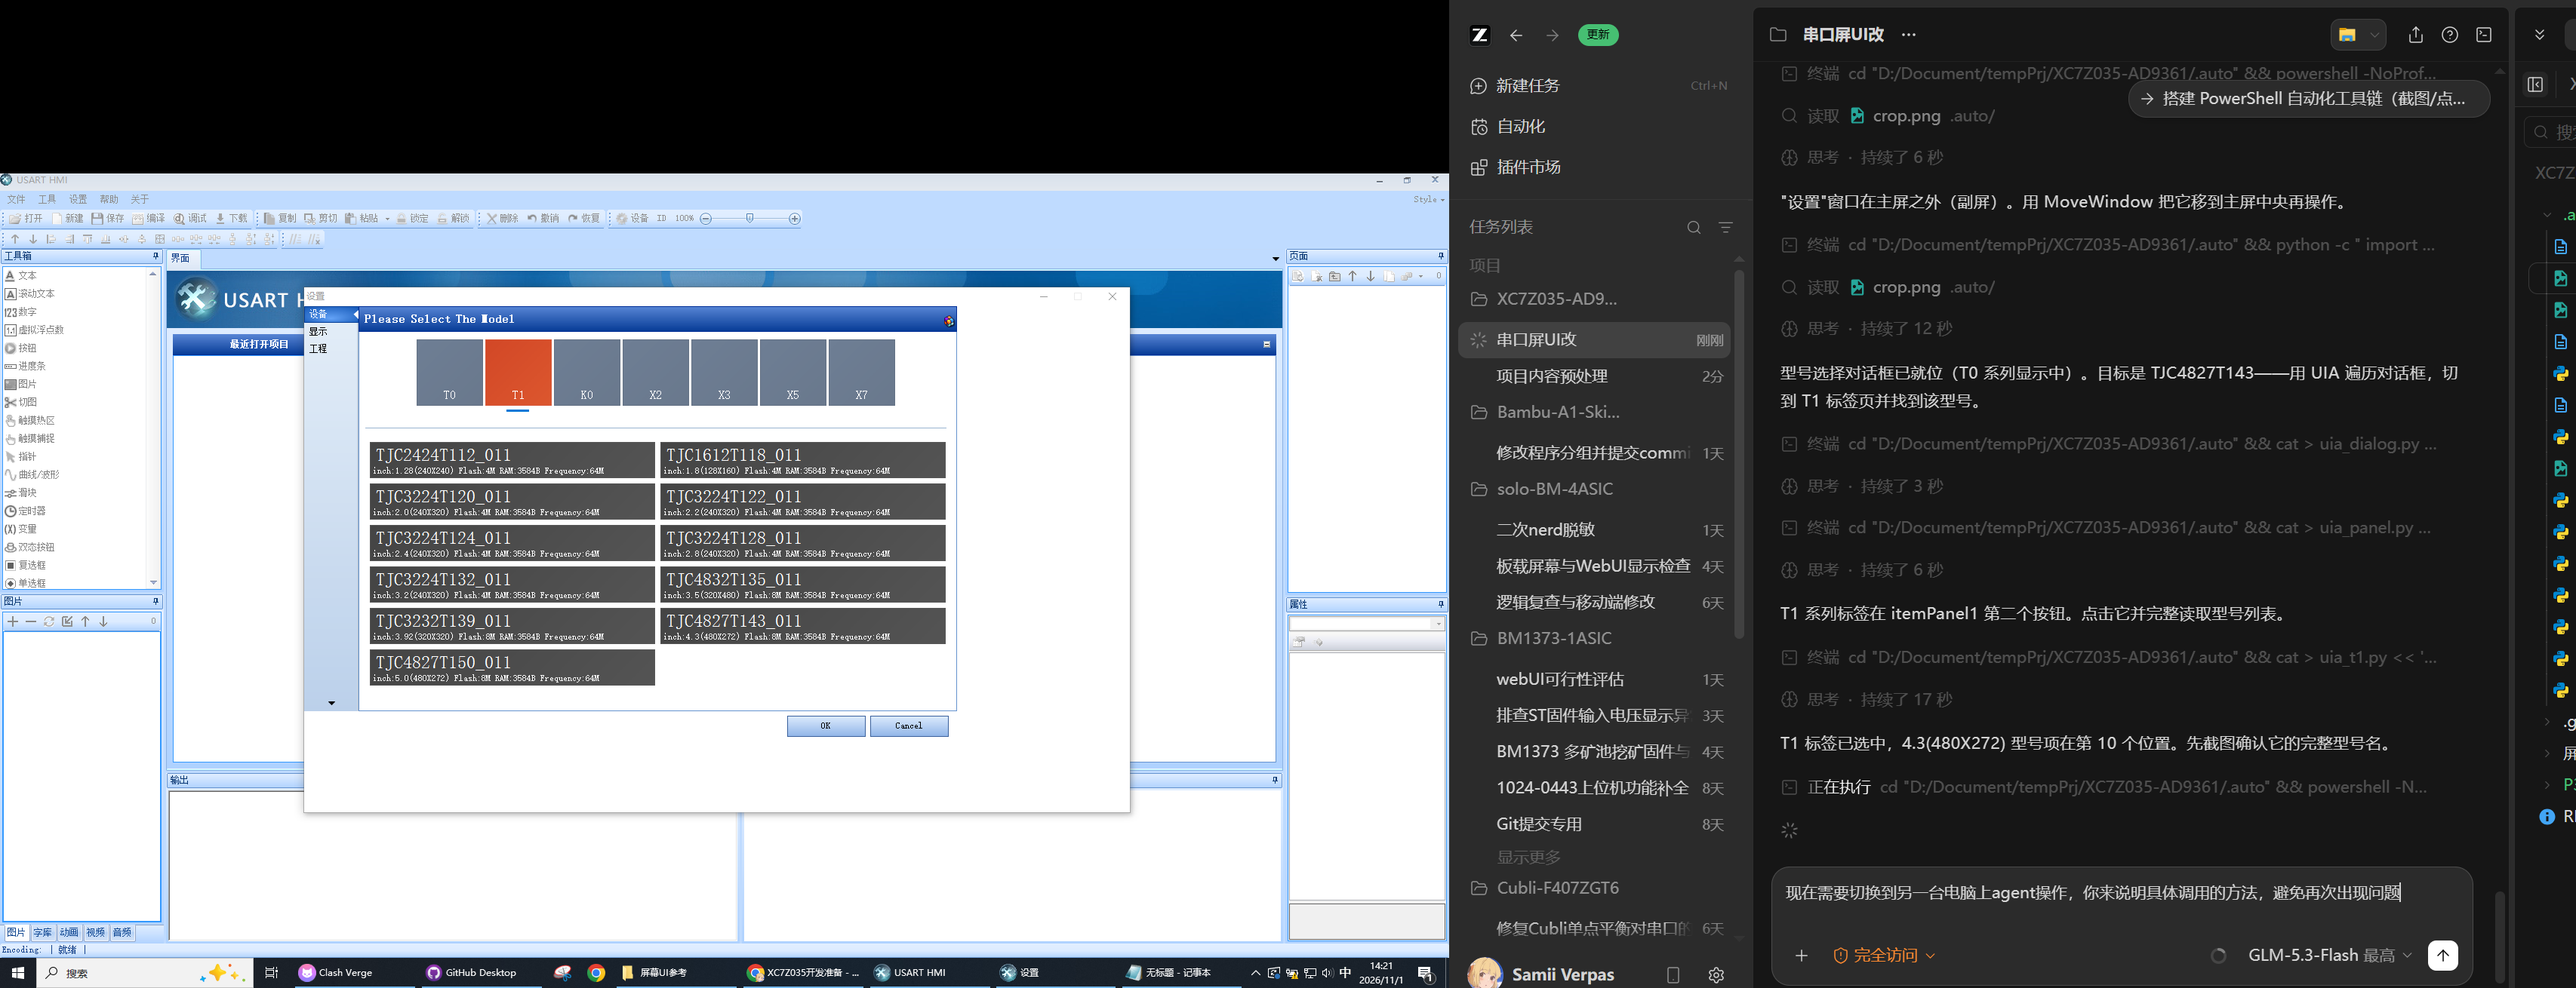
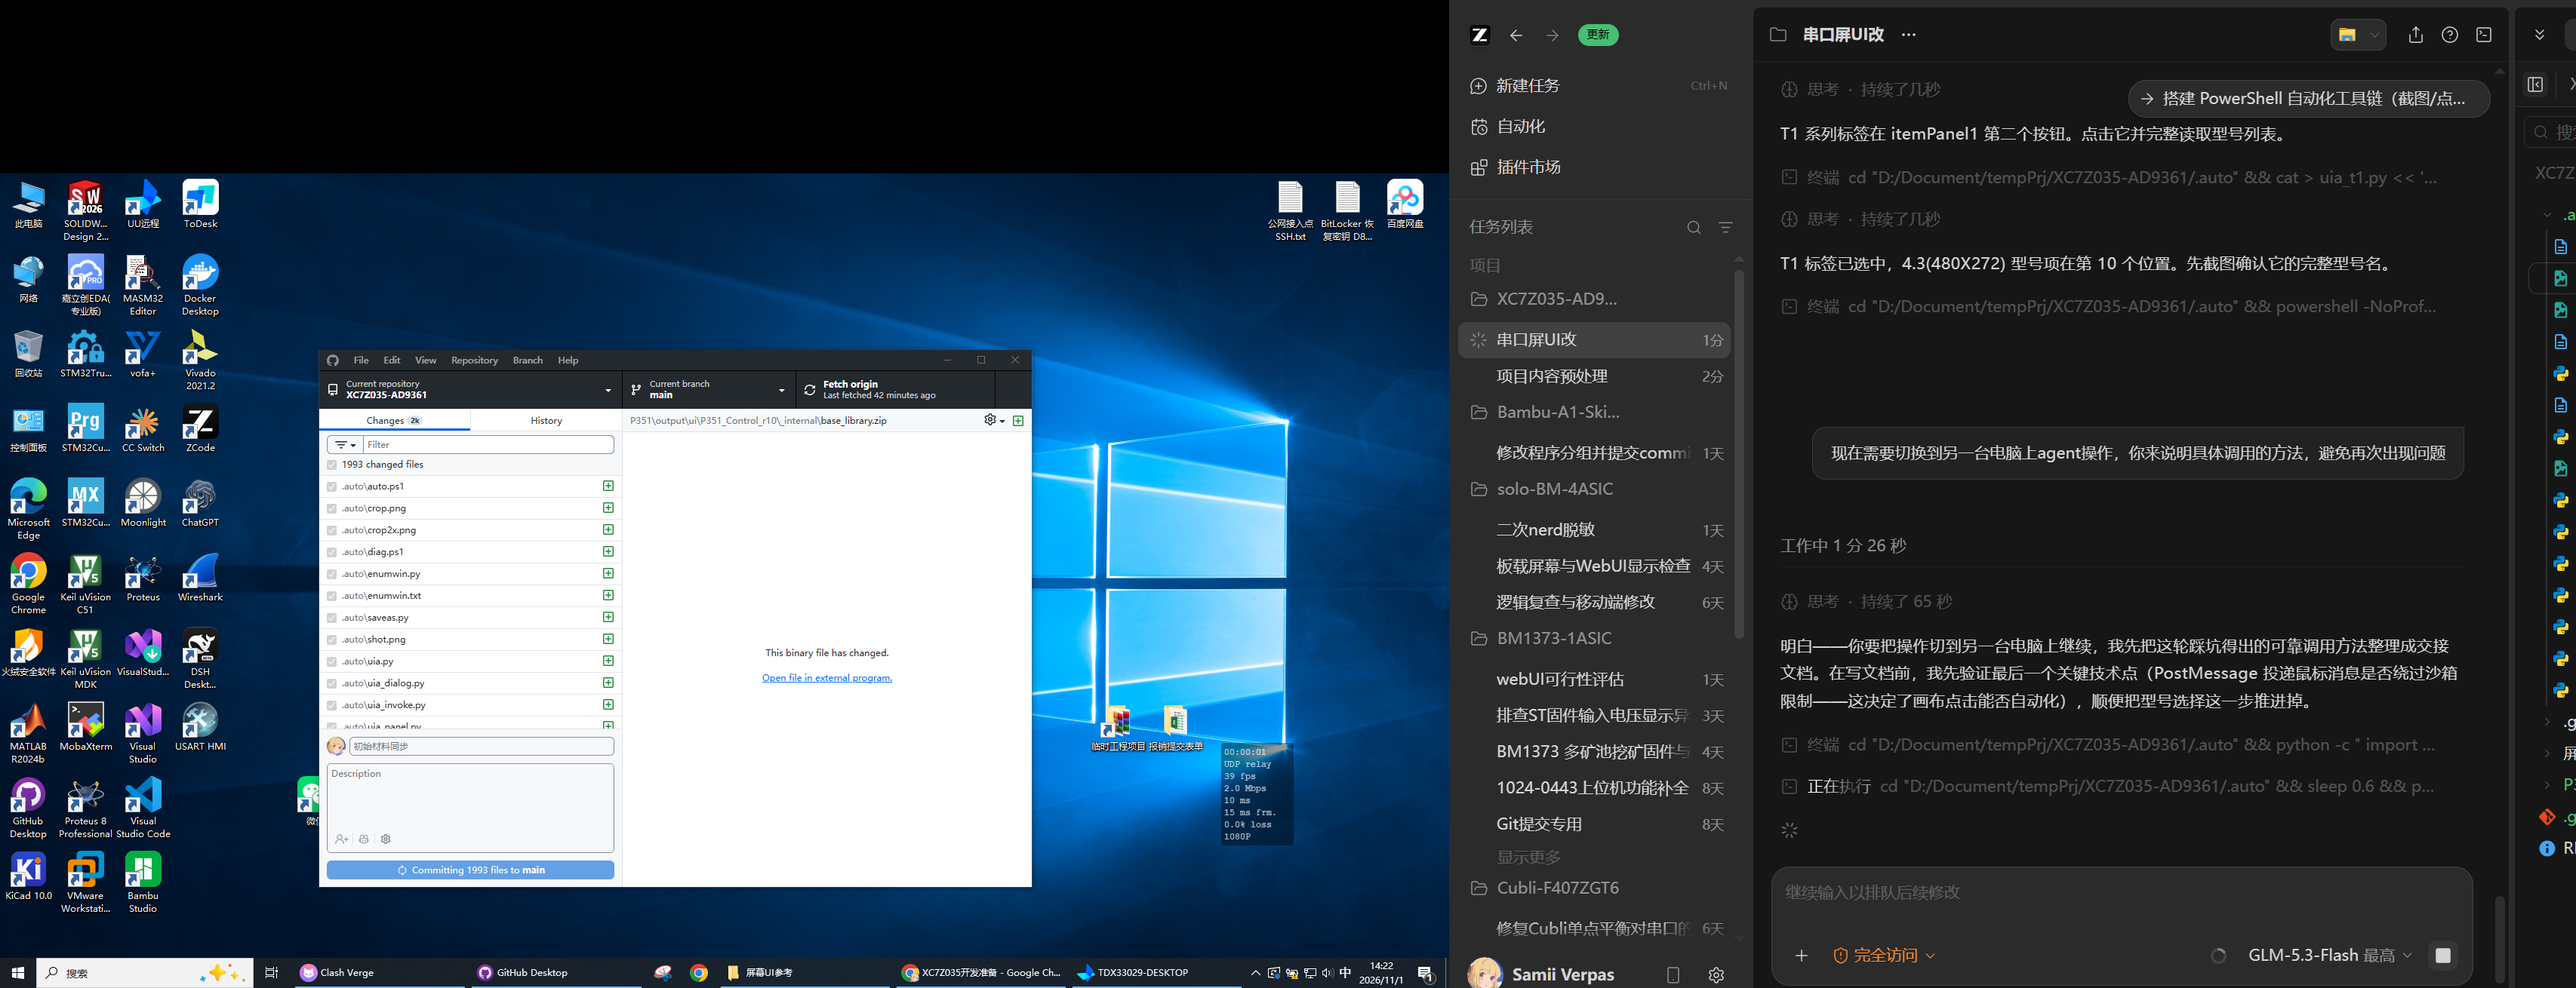
自动化调用说明

diff --git a/屏幕UI自动化交接说明.md b/屏幕UI自动化交接说明.md
@@ -1,0 +1,205 @@
+# USART HMI 串口屏 UI 复原 — 跨机器自动化交接说明
+
+> 2026-11-01 由当前机器的 agent 会话产出。目标：把"屏幕UI参考/*.jpg"（校验仿真器 P351 TX2，老设备样式）
+> 复原到 TJC4827T143（480×272）串口屏上，**在 USART HMI 编辑器中完成绘制**，保存 .HMI 并编译 .tft。
+> 本文档记录已验证的自动化调用方法、踩坑结论、当前进度和完整 UI 规格，供下一台机器上的会话直接续做。
+
+---
+
+## 1. 环境结论（本机已实测，新机器直接沿用）
+
+| 结论 | 说明 |
+|---|---|
+| 软件形态 | USART HMI v1.68.2 是 **.NET WinForms + DotNetBar** 应用 → **必须走 UIA（pywinauto, backend='uia'）**，不要用屏幕坐标盲点 |
+| 沙箱限制 | Bash 工具默认沙箱会**拦截/虚拟化真实输入**：`SendInput`、`mouse_event`、`SetCursorPos`（坐标被虚拟化，`GetCursorPos` 返回假值）、`SendKeys` 全部无效；但 `CopyFromScreen` 截图正常 |
+| `dangerouslyDisableSandbox` | 会被权限系统直接取消，**不要依赖** |
+| 正确路径 | **UIA COM 调用不受沙箱限制**（Invoke/Value 模式已实测可用）；`PostMessage`/`SendMessage` 投递窗口消息也已能到达目标窗口 |
+| Computer Use | `agent.computerUse` 在 node_repl 会话无 broker，不可用，勿再尝试 |
+| 多显示器 | 副屏存在（虚拟屏 3413×1310）。**对话框可能开在副屏**（如"设置"开在 2231,-86），先用 `MoveWindow` 移到主屏再截图操作 |
+
+## 2. 已验证调用配方（代码均在本机 .auto/ 下）
+
+### 2.1 准备
+```bash
+pip install pywinauto pillow        # pywinauto 0.6.9 已验证
+tasklist | grep -i usart            # 拿 PID，例如 25856
+```
+
+### 2.2 连接主窗口 / 遍历控件
+```python
+from pywinauto import Desktop
+app = Desktop(backend='uia').window(title='USART HMI', process=PID)
+for w in app.descendants(control_type='Button'):
+    print(w.element_info.name, w.element_info.rectangle)
+```
+主窗口结构：MenuBar（文件/工具/设置/帮助/关于）、ToolBar 按钮组
+（打开/新建/保存/编译/调试/下载/复制/剪切/粘贴/锁定/解锁/删除/撤销/恢复/设备/ID/100%）。
+左侧工具箱、右侧 页面/属性 面板、底部 输出/事件 均为 DotNetBar Bar 组。
+
+### 2.3 调用工具栏按钮（已验证：新建 → 弹出另存为）
+```python
+btn = next(w for w in app.descendants(control_type='Button')
+           if w.element_info.name == '新建')
+btn.invoke()          # 不要用 click_input()/SendKeys —— 沙箱拦截
+```
+
+### 2.4 新建工程流程（本机已推进到型号对话框）
+1. `新建` invoke → 弹出系统"另存为"对话框（`title='另存为'`）。
+2. 文件名 Edit 直接填**完整路径**并点"保存"：
+```python
+dlg = Desktop(backend='uia').window(title='另存为')
+for e in dlg.descendants(control_type='Edit'):
+    ...            # 取文件名框（名为空或含"文件名"）
+e.set_edit_text(r'D:\Document\tempPrj\XC7Z035-AD9361\P351\output\screen\P351_ReferenceUI_480x272_v1.HMI')
+for b in dlg.descendants(control_type='Button'):
+    if '保存' in (b.element_info.name or ''): b.invoke()
+```
+3. 弹出"设置"（型号选择）对话框 `title='设置'`（注意可能在副屏，先 MoveWindow）：
+```python
+import ctypes; u32 = ctypes.windll.user32
+u32.MoveWindow(0xd0b76, 400, 150, 1100, 700, True)   # 句柄由 EnumWindows 查到
+```
+4. 对话框结构：`itemPanel1` 的 7 个子 Button = T0/T1/K0/X2/X3/X5/X7 系列（`children()[1]`=T1，invoke 切换）；
+   `itemPanel4` 的子 Button = 型号项（UIA Name 是 HTML 文本，含 `inch:4.3(480X272)` 字样，不含完整型号号，
+   **用截图确认型号**）。T1 系列 4.3(480X272) 项在对话框位于 (400,150) 时 rect=(874,575)-(1254,625)。
+   目标型号：**TJC4827T143**（上一版工程 control_manifest.json 记录为 TJC4827T143_011R_P20）。
+   选好后点 `OK` 按钮（rect L1043,T719）。
+5. 找对话框句柄：`EnumWindows` + `GetWindowThreadProcessId`（见 .auto/enumwin.py）。
+
+### 2.5 截图闭环（看图核实每一步）
+```bash
+powershell -NoProfile -ExecutionPolicy Bypass -File .auto/auto.ps1 shot          # 全屏
+powershell -NoProfile -ExecutionPolicy Bypass -File .auto/auto.ps1 crop X Y W H  # 裁剪
+# 然后 Read crop.png 看图；需要放大时用 PIL resize 2x
+```
+`auto.ps1` 还有 focus/move/click/keys 等动作——**在新机器上不要依赖 click/keys**（沙箱会拦截），
+仅 shot/crop 可靠。
+
+### 2.6 兜底：窗口消息投递（沙箱内可发，结果需复核）
+```python
+WM_LBUTTONDOWN, WM_LBUTTONUP, WM_MOUSEMOVE = 0x0200, 0x0201, 0x0202
+hwnd = ctypes.windll.user32.WindowFromPoint(P(x, y))   # 画布/自绘项的宿主窗口
+lp = (cy << 16) | (cx & 0xFFFF)                        # 客户区坐标
+PostMessageW(hwnd, WM_MOUSEMOVE, 0, lp)
+PostMessageW(hwnd, WM_LBUTTONDOWN, 1, lp); PostMessageW(hwnd, WM_LBUTTONUP, 0, lp)
+```
+本轮已成功投递到型号列表项（0x1f07ae），因用户窗口遮挡未验证最终效果。**新机器上优先复核此方法**——
+它是画布放置控件、自绘工具箱项的兜底手段。
+
+### 2.7 编辑器阶段的推荐做法（新机器需验证的部分）
+- **控件放置**：先试工具箱组件项（文本/按钮/双态按钮/填充等）的 UIA `DoDefaultAction`/双击语义；
+  失败则用 2.6 的 PostMessage 点击工具箱项 + 画布目标点。
+- **属性修改（关键提效点）**：选中控件后右侧"属性"表是表格控件，UIA 应可枚举行/单元格并
+  `ValuePattern.SetValue()` 直接改 objname/x/y/w/h/bco/pco/font/txt，完全绕开鼠标。
+  未选中任何控件时属性表显示的是**页面属性**（bco=页面背景色，在此改成页面底色）。
+- **复制粘贴提效**：同类控件画好一个后用工具栏 复制/粘贴 按钮（invoke），再只改差异属性（x/y/txt）。
+- **事件代码**：控件"事件"列打开代码编辑框（EDIT/RichEdit20W），用 ValuePattern/WM_SETTEXT 写入。
+- **编译**：`编译` 按钮 invoke；结果在底部"输出"RichEdit20W，可 WM_GETTEXT 读取确认 0 错误。
+
+## 3. 当前进度（截至切换机器）
+
+- [x] 工具链与 UIA 通路验证
+- [x] 新建 → 另存为路径已填 `P351\output\screen\P351_ReferenceUI_480x272_v1.HMI` → 已点保存
+- [x] "设置"型号对话框已打开，已切到 **T1** 系列，已定位 4.3(480X272) 项
+- [ ] 该型号项的选中 + OK（PostMessage 已投递，**未验证**）→ 新机器第一步先核对：
+      看 `设置` 对话框是否还在/型号是否已选中；若状态不明，关闭后按 2.4 重走一遍，
+      或检查 `P351_ReferenceUI_480x272_v1.HMI` 是否已生成、直接打开。
+- [ ] 四页绘制、事件接线、保存、编译、核对参考图 —— 全部未开始。
+
+## 4. UI 复原规格（480×272，四页，TJC 内置 GBK 字体）
+
+### 4.1 配色（RGB565 由 RGB 计算：`(R>>3)<<11|(G>>2)<<5|(B>>3)`）
+| 用途 | RGB | RGB565 |
+|---|---|---|
+| 顶栏深蓝 | #1F407A | 6671 |
+| 选中/按钮蓝 | #1E46D0 | 6714 |
+| 底栏灰蓝 | #46628E | 17169 |
+| 页面底色 | #D6DCE8 | 55037 |
+| 正文深蓝墨 | #17275F | 4395 |
+| 红色（停止发射/确认超时） | #E03028 | 57733 |
+| 白 | #FFFFFF | 65535 |
+> 参考图有反光，以上按照片目测取中值；核对阶段可微调。
+
+### 4.2 公共框架（每页相同）
+- 顶栏：填充 (0,0,480,30) 深蓝；文本"校验仿真器 P351 TX2" (8,7) 白字 font16 左对齐；
+  文本"RF: ?" (~250,7) 白字 font16；按钮"停止发射" (390,3,86,25) 红底白字 font16。
+- 底栏：填充 (0,244,480,28) 灰蓝；4 个标签按钮各 120 宽（发射/数据帧/同步字/状态），
+  白字 font16；**当前页标签 bco=选中蓝，其余 bco=底栏灰蓝**；press 事件分别 `page 0/1/2/3`（当前页标签留空）。
+- 页面属性 bco = 55037（页面底色）。
+
+### 4.3 页面 0「发射」
+| 控件 | 文本/说明 | 位置 (x,y,w,h) | 样式 |
+|---|---|---|---|
+| 文本 | 发射频率： | 12,44,140,20 | font16 墨色 |
+| 文本 | 5137.0 MHz | 12,64,220,28 | font24 墨色 |
+| 文本 | 发射功率： | 240,44,140,20 | font16 墨色 |
+| 文本 | -30 dBm | 240,64,200,28 | font24 墨色 |
+| 文本 | 调制方式 | 12,96,120,20 | font16 |
+| 按钮 | PCM/FM（选中） | 12,118,200,26 | 蓝底白字 |
+| 按钮 | SOQPSK-TG | 236,118,200,26 | 底色=页面底色（隐形），墨色字 |
+| 文本 | 码率 / kbit/s | 12,152,200,20 | font16 |
+| 文本 | 4000 | 12,172,200,28 | font24 |
+| 文本 | 数据源  PN11 | 240,162,220,20 | font16 |
+| 按钮 | 应用并发射 | 12,204,236,26 | 蓝底白字 |
+| 按钮 | 读取板端设置 | 258,204,210,26 | 蓝底白字 |
+| 文本 | 确认超时 | 12,228,120,16 | font16 红 |
+
+### 4.4 页面 1「数据帧」
+| 控件 | 文本/说明 | 位置 | 样式 |
+|---|---|---|---|
+| 文本 | PCM 码型 | 12,40,160,20 | font16 |
+| 按钮 | NRZ-L  选择 > | 12,60,220,24 | 隐形底，墨字（选择器） |
+| 文本 | 帧同步 | 12,96,120,20 | font16 |
+| 按钮 | 关（未选） | 12,118,90,26 | 隐形底，墨字 |
+| 按钮 | 开（选中） | 108,118,90,26 | 蓝底白字 |
+| 文本 | 重复方式 | 240,96,140,20 | font16 |
+| 按钮 | 单次（未选） | 240,118,90,26 | 隐形底，墨字 |
+| 按钮 | 无限循环（选中） | 336,118,120,26 | 蓝底白字 |
+| 文本 | 小帧 / byte | 12,152,180,20 | font16 |
+| 文本 | 512 | 12,172,180,28 | font24 |
+| 文本 | 复帧小帧数 | 240,152,160,20 | font16 |
+| 文本 | 1 | 240,172,180,28 | font24 |
+| 文本 | PN11 / 7FF / 2047 bit | 12,208,260,20 | font16 |
+| 按钮 | 同步字设置 | 306,200,162,26 | 蓝底白字（press: `page 2`） |
+| 文本 | 确认超时 | 12,228,120,16 | 红 font16 |
+
+### 4.5 页面 2「同步字」
+| 控件 | 文本/说明 | 位置 | 样式 |
+|---|---|---|---|
+| 文本 | 同步字低16位 / HEX | 12,40,220,20 | font16 |
+| 文本 | 2840 | 12,60,180,28 | font24 |
+| 文本 | 同步字高16位 / HEX | 240,40,220,20 | font16 |
+| 文本 | FB6B | 240,60,180,28 | font24 |
+| 文本 | 同步字长度 / bit | 12,104,200,20 | font16 |
+| 文本 | 32 | 12,124,180,28 | font24 |
+| 文本 | 第33位 | 240,96,120,20 | font16 |
+| 按钮 | 0（选中） | 240,118,90,26 | 蓝底白字 |
+| 按钮 | 1（未选） | 336,118,90,26 | 隐形底，墨字 |
+| 文本 | SYNC HEX:  0  FB6B  2840  /bit:  32 | 12,168,456,20 | font16 |
+| 按钮 | 检查同步字与帧容量 | 12,200,324,26 | 蓝底白字 |
+| 文本 | 确认超时 | 12,228,120,16 | 红 font16 |
+
+### 4.6 页面 3「状态」
+- 5 行文本"等待板端状态"：y=44/76/108/140/172，x=12，font16 墨色；
+- 按钮"刷新状态" (306,168,162,28) 蓝底白字；
+- 文本"确认超时" (12,200) 红 font16。
+
+### 4.7 其它设置
+- Program.s 建议加 `baud=115200`（与 PS 端协议一致，上一版如此）。
+- 工程名/页面名可沿用 main、p1、p2、p3（页面显示名用中文标签即可）。
+- 页面切换事件用 TJC 指令 `page N`。
+
+## 5. 相关文件
+- 参考图：`屏幕UI参考/1.jpg ~ 4.jpg`（1=发射页，2=数据帧页，3=同步字页，4=状态页）
+- 上一版工程（白色卡片风格，与本次目标不同，可参考其事件写法）：
+  `P351/output/screen/P351_FinalRF_480x272_v10.HMI`、`control_manifest.json`、
+  `shouye.press.txt` 等事件源码、`screen_design.py`
+- 自动化脚本：`.auto/auto.ps1`（截图）、`.auto/uia_*.py`（UIA 配方）、`.auto/enumwin.py`（窗口枚举）
+- 本文档：`屏幕UI自动化交接说明.md`
+
+## 6. 新机器开工顺序（建议）
+1. 复核"设置"对话框状态（或重走 2.4），完成型号选择 → OK → 编辑器打开。
+2. 用 2.2 枚举编辑器控件树，确认工具箱组件项与属性表的 UIA 形态（决定 2.7 用 invoke 还是 PostMessage）。
+3. 设置页面 bco → 逐页绘制公共框架 + 内容（先页面0，全部样式定稿后复制到其余三页再改差异）。
+4. 接线 4×3 个标签按钮 `page N` 事件。
+5. 保存 → 编译 → 输出面板确认 0 错误 → 截图对照参考图微调颜色/间距。
